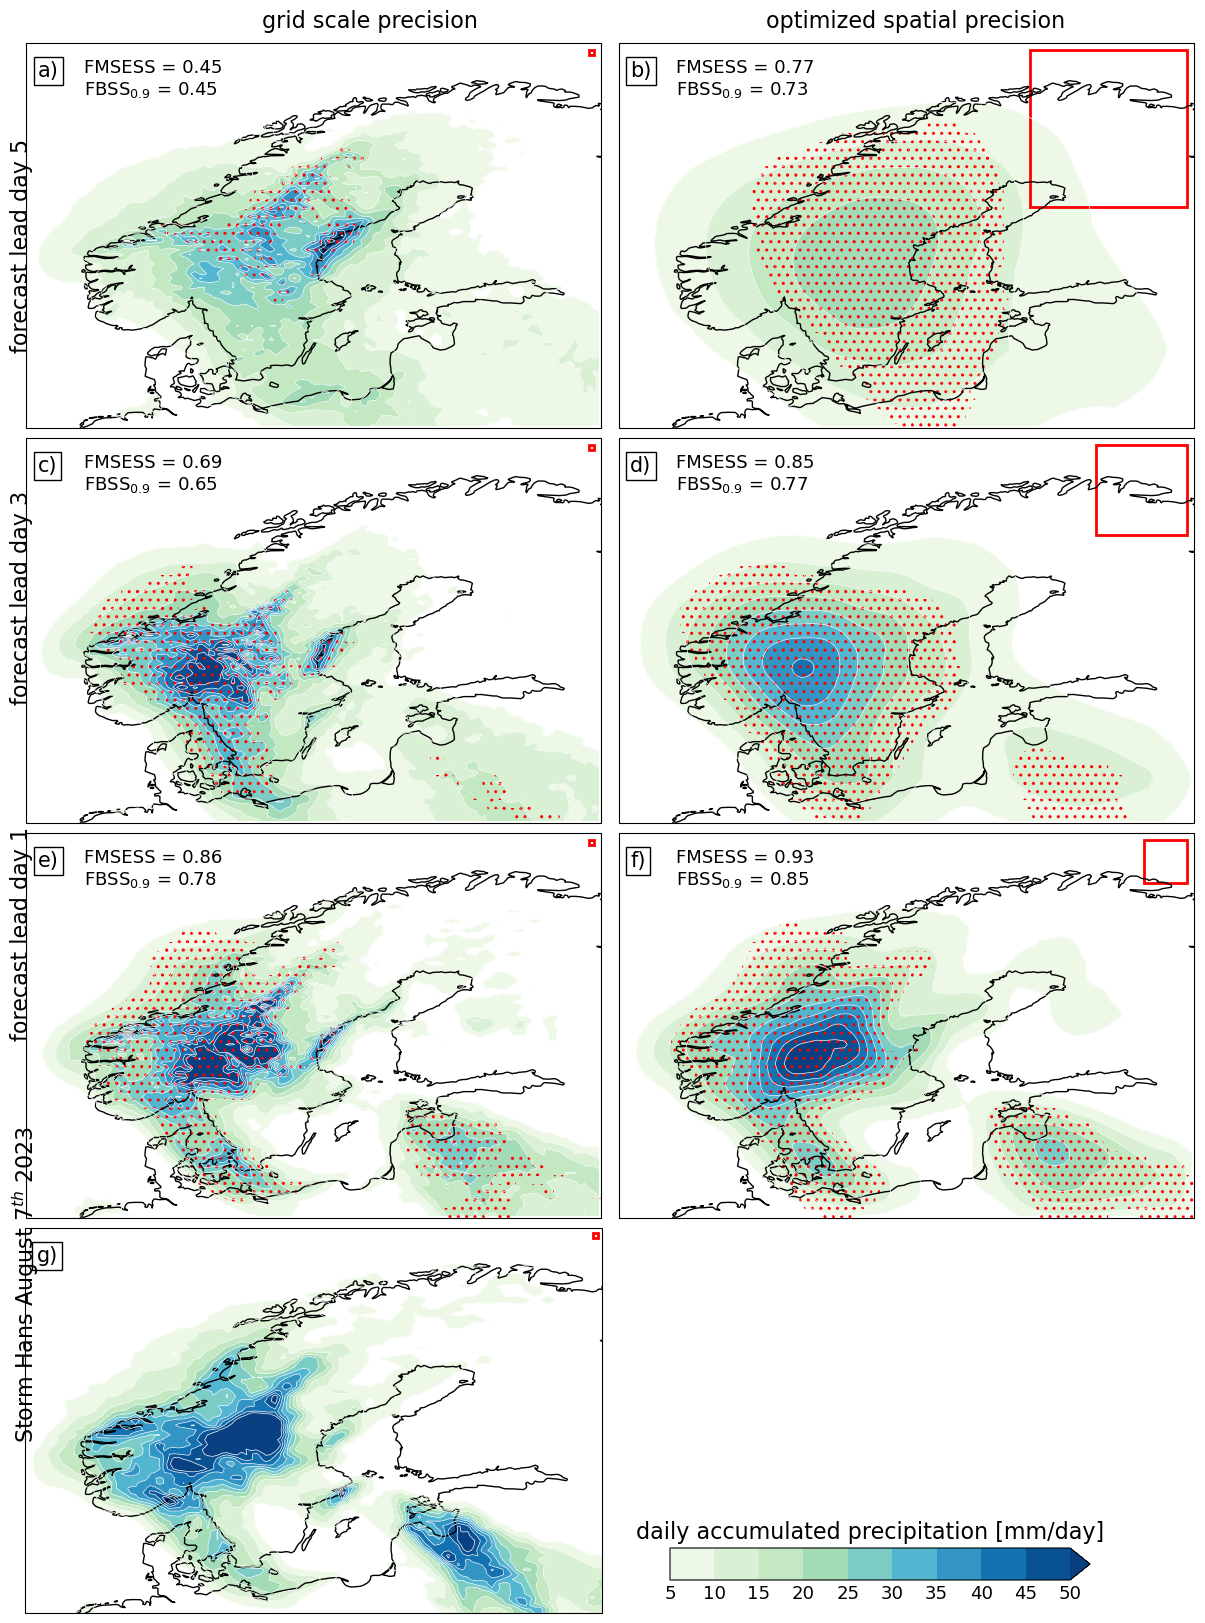
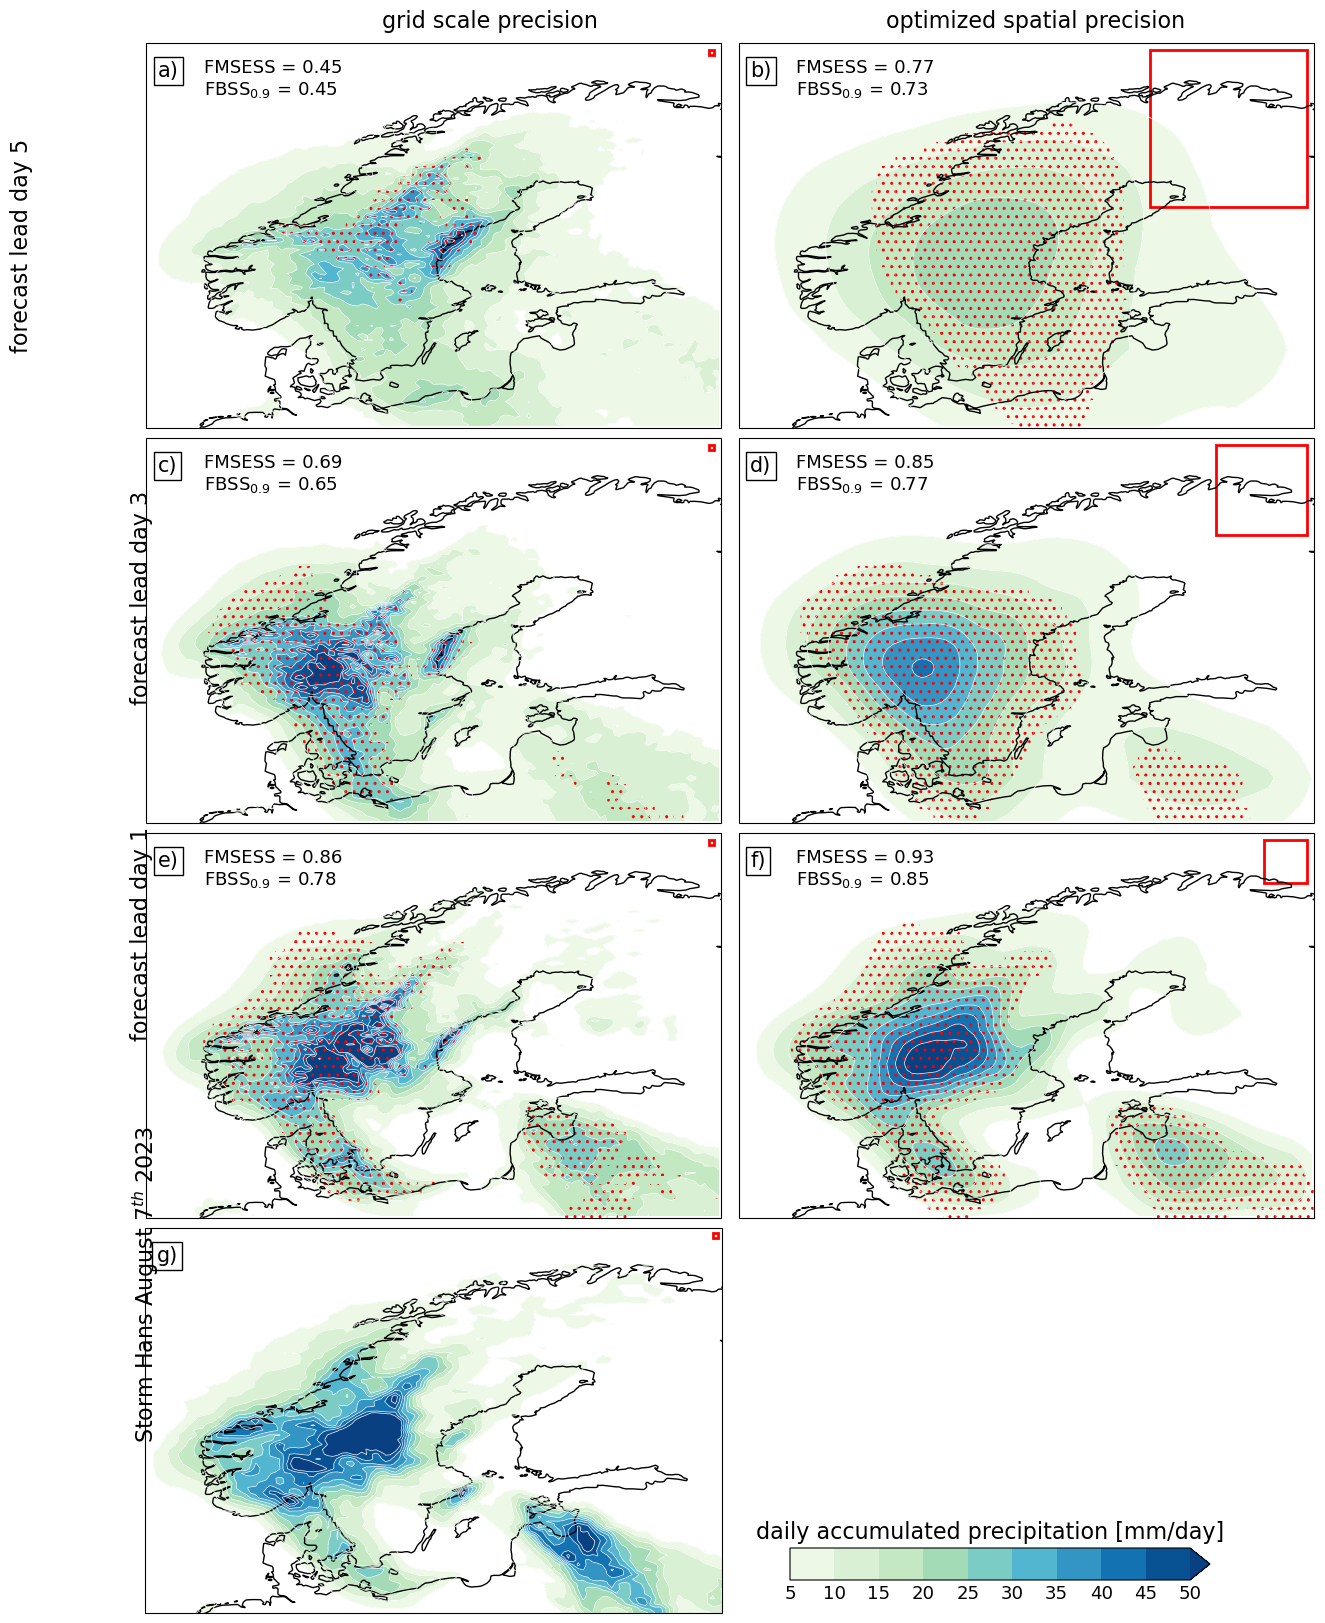
update

diff --git a/code/plot/test.py b/code/plot/test.py
@@ -127,7 +127,7 @@ cb.ax.set_title('daily accumulated precipitation [mm/day]', fontsize=fontsize+5,
 #fig.text(0.21,0.965,'grid scale precision',fontsize=fontsize+5)
 fig.text(0.21,1.0,'grid scale precision',fontsize=fontsize+5) 
 fig.text(0.63,1.0,'optimized spatial precision',fontsize=fontsize+5)
-fig.text(0.0,0.8,'forecast lead day 5',rotation=90,fontsize=fontsize+5)
+fig.text(-0.1,0.8,'forecast lead day 5',rotation=90,fontsize=fontsize+5)
 fig.text(0.0,0.58,'forecast lead day 3',rotation=90,fontsize=fontsize+5)
 fig.text(0.0,0.37,'forecast lead day 1',rotation=90,fontsize=fontsize+5)
 fig.text(0.0,0.12,r'Storm Hans August 7$^{th}$ 2023',rotation=90,fontsize=fontsize+5)
